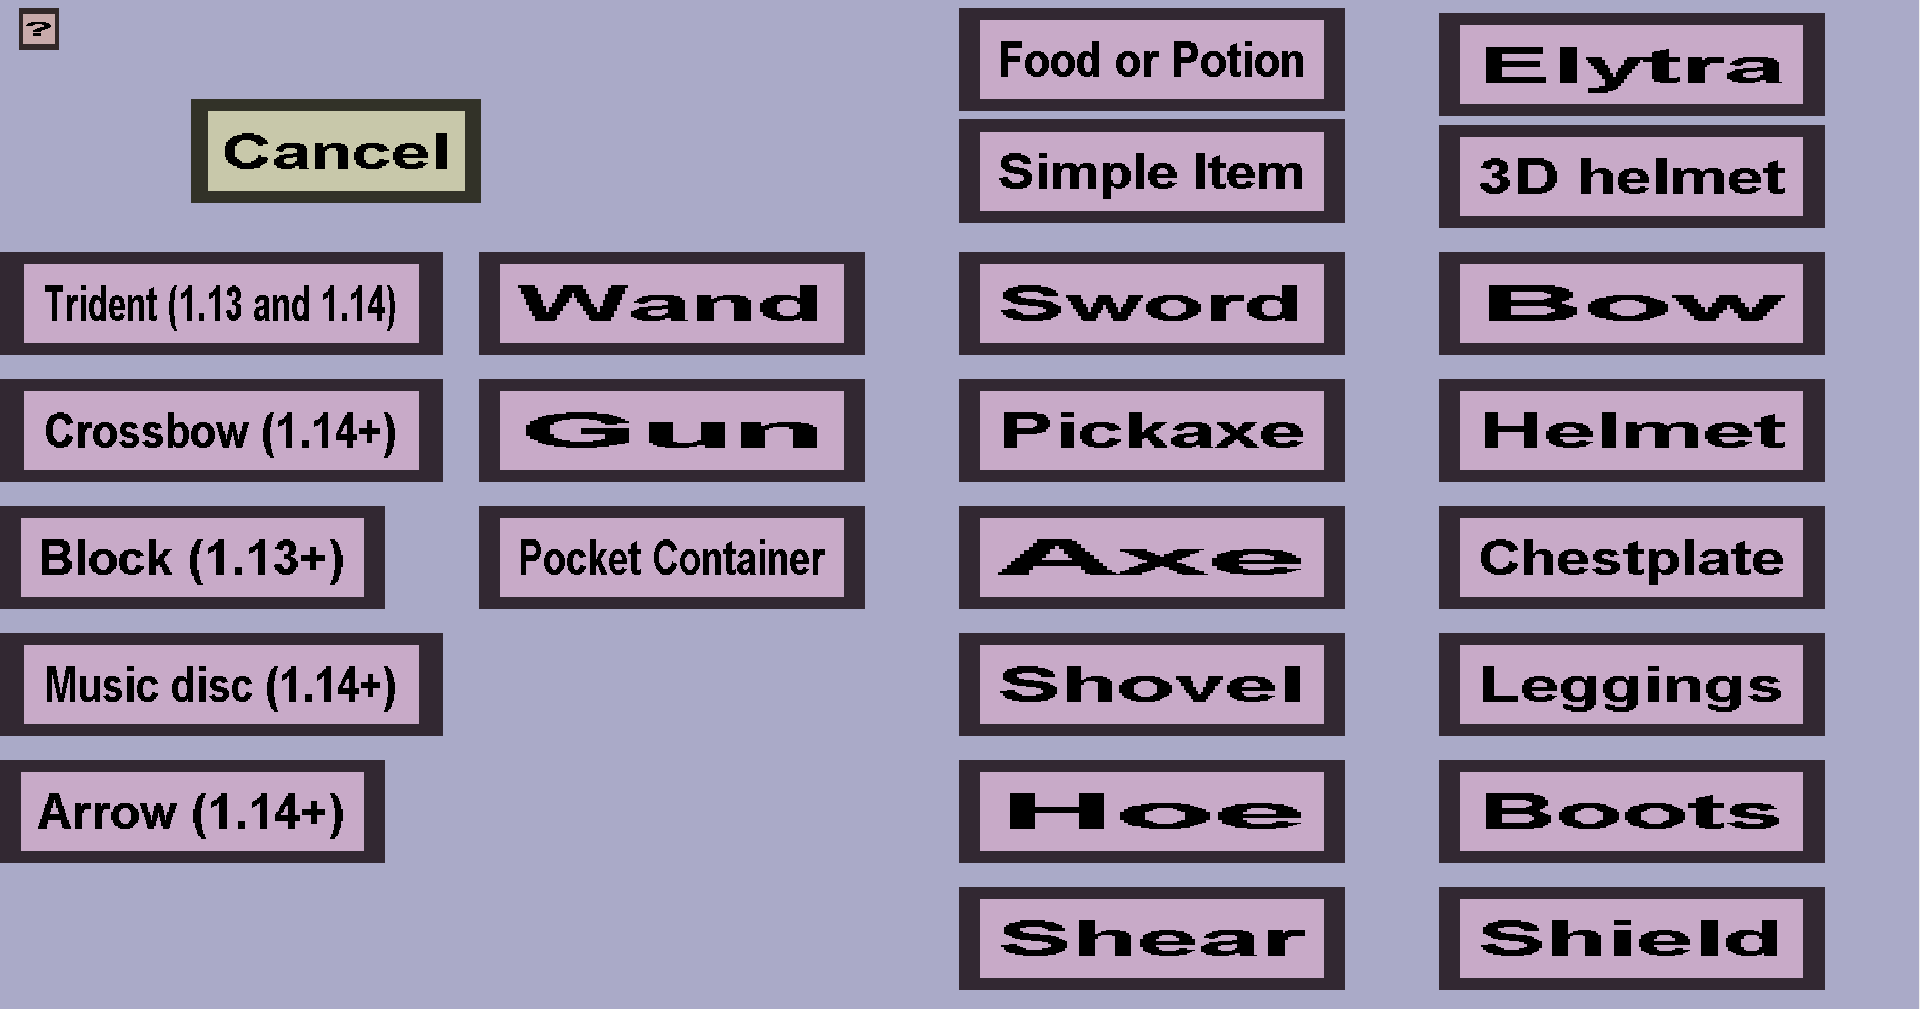
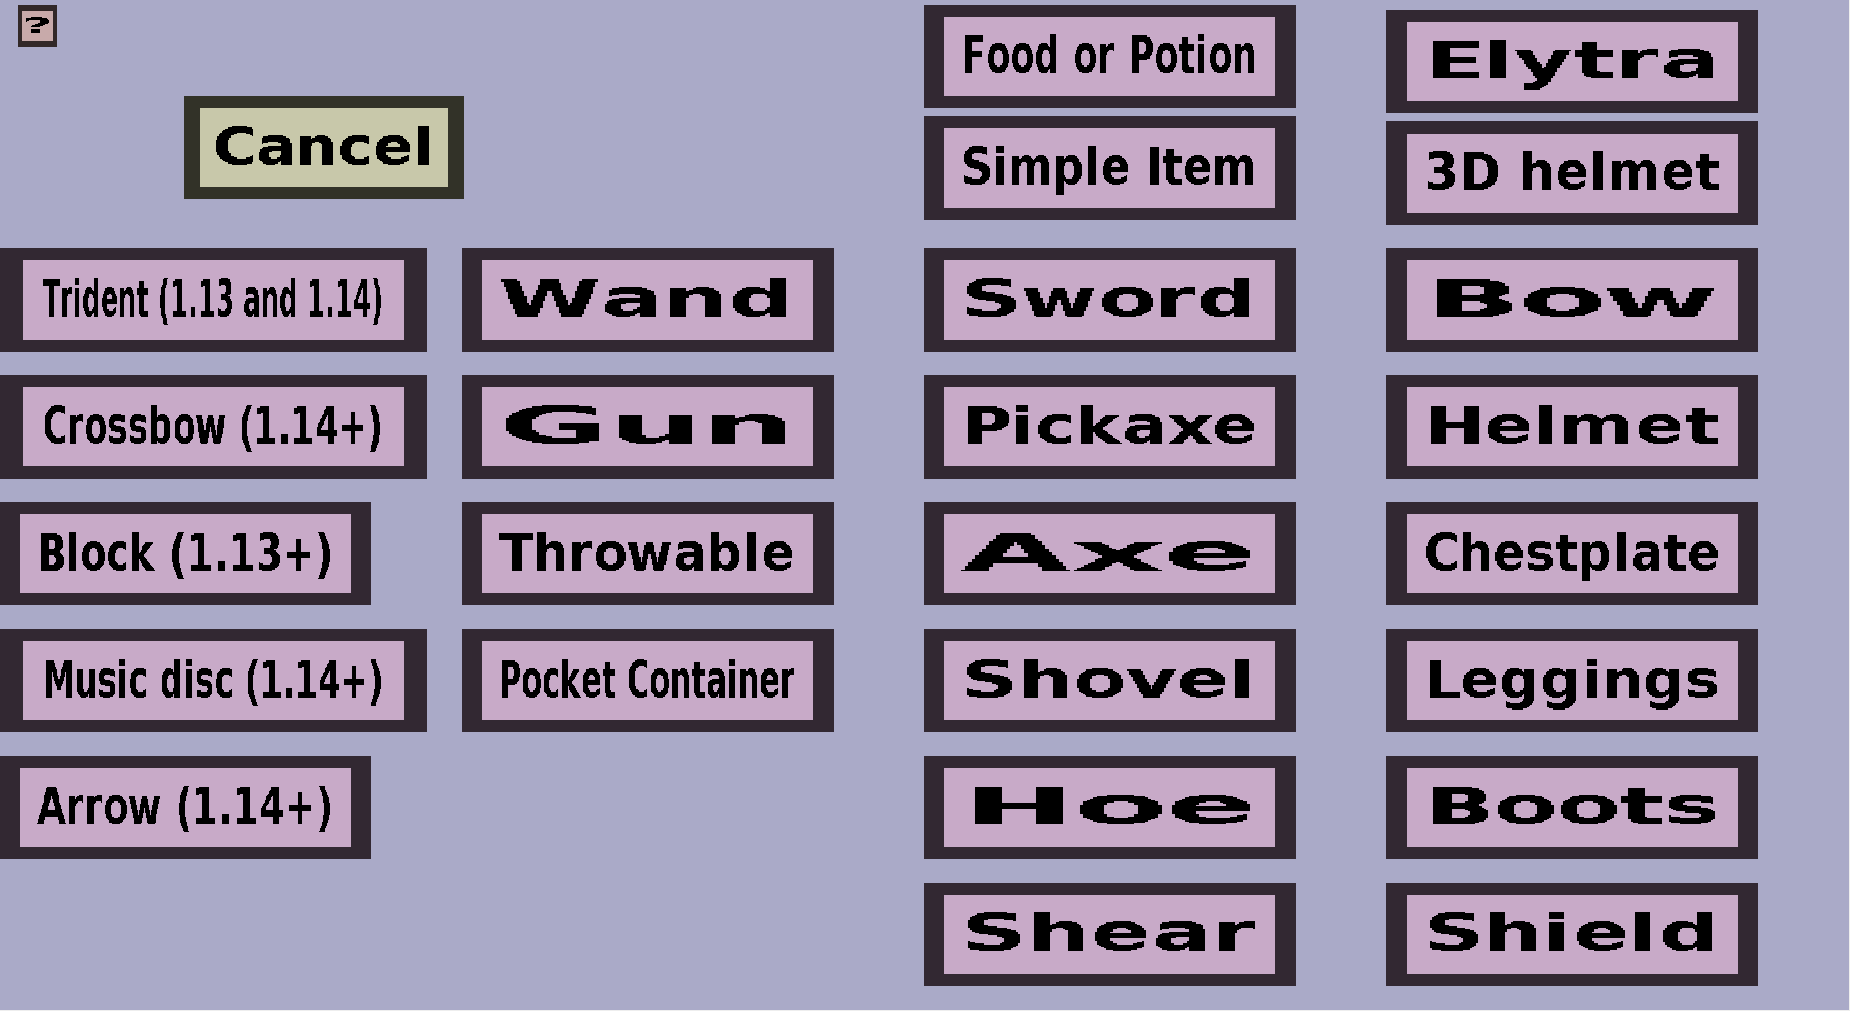
Document the new throwable custom items of KCI 13

diff --git a/custom items/editor documentation/edit menu/items/edit/throwable.html b/custom items/editor documentation/edit menu/items/edit/throwable.html
@@ -1,0 +1,57 @@
+<!DOCTYPE html>
+<html lang="en">
+<head>
+    <meta charset="UTF-8">
+    <title>Throwable edit menu</title>
+</head>
+<body>
+    <p>
+        The throwable edit menu can be used to create throwable custom items.
+        Please note that you need to create a <b>custom projectile</b> before you can create a throwable custom item.
+        If you just started creating a new throwable, it should look like this:
+    </p>
+    <img src="throwable.png" width="50%" />
+    <p>
+        This menu has everything the <a href="base.html">base item edit menu</a> has, but a little more.
+        Throwable items are basically simple custom items that can be thrown.
+        Before you can create a throwable, you need to create at least 1 custom projectile at the
+        <a href="../../projectiles/index.html">'Projectiles' section</a> of the Editor
+        (just like there is a 'Textures', 'Items', 'Recipes' and 'Drops' section).
+    </p>
+    <h3>Projectile</h3>
+    <p>
+        This determines which custom projectile players can throw with this item.
+        The button on the right of 'Projectile:' displays the name of the currently
+        selected custom projectile, or 'None' if you haven't chosen one yet.
+        To change the custom projectile, you should click on that button, which will take you to the
+        <a href="projectile selection.html">projectile selection menu</a> where you can choose which
+        custom projectile this item will throw.
+    </p>
+    <h3>Maximum stacksize</h3>
+    <p>
+        As the name suggests, this determines the maximum stacksize of this throwable item. You can choose any
+        integer between 1 and 64, but the stacking may be less 'smooth' if it doesn't match the 'natural' stacksize
+        of the internal item type.
+    </p>
+    <h3>Amount per shot</h3>
+    <p>
+        The amount of projectiles players will launch each time they throw the item.
+        The amount does <b>not</b> have any effect on the cooldown or the stacksize:
+        If you change the 'Amount per shot' to 2, players will always fire 2 instances
+        of the Projectile at each throw, but that will only decrease the stacksize by 1 and will
+        put the throwable on the exact same Cooldown as if you kept the 'Amount per shot' 1.
+    </p>
+    <h3>Cooldown</h3>
+    <p>
+        The time in ticks players must wait after throwing the item before it can be thrown again.
+        Whenever a player throws the item, the player won't be able to throw again
+        until the Cooldown has passed.
+    </p>
+    <h3>Requires permission</h3>
+    <p>
+        Whether players need a permission to throw this item. If this is unchecked, any player
+        can throw this item. If this is checked, only players with the <b>customitems.shoot.ITEM_NAME</b>
+        or the <b>customitems.shootall</b> permission can throw this item.
+    </p>
+</body>
+</html>

diff --git a/custom items/editor documentation/edit menu/items/select type.html b/custom items/editor documentation/edit menu/items/select type.html
@@ -149,6 +149,12 @@
                     <a href="edit/gun.html">gun edit menu</a>.
                 </li>
                 <li>
+                    'Throwable' is for custom items that players can throw. Throwing a custom item will launch a
+                    custom projectile and decrement its own stacksize. Note that you need to create a custom projectile
+                    before you can create a throwable custom item. The corresponding edit menu is the
+                    <a href="edit/throwable.html">throwable edit menu</a>.
+                </li>
+                <li>
                     'Pocket container' is for (custom) pocket containers. These are 
                     custom items that will open a custom container when players
                     right-click it. (See the <i>Containers</i> button on the 
